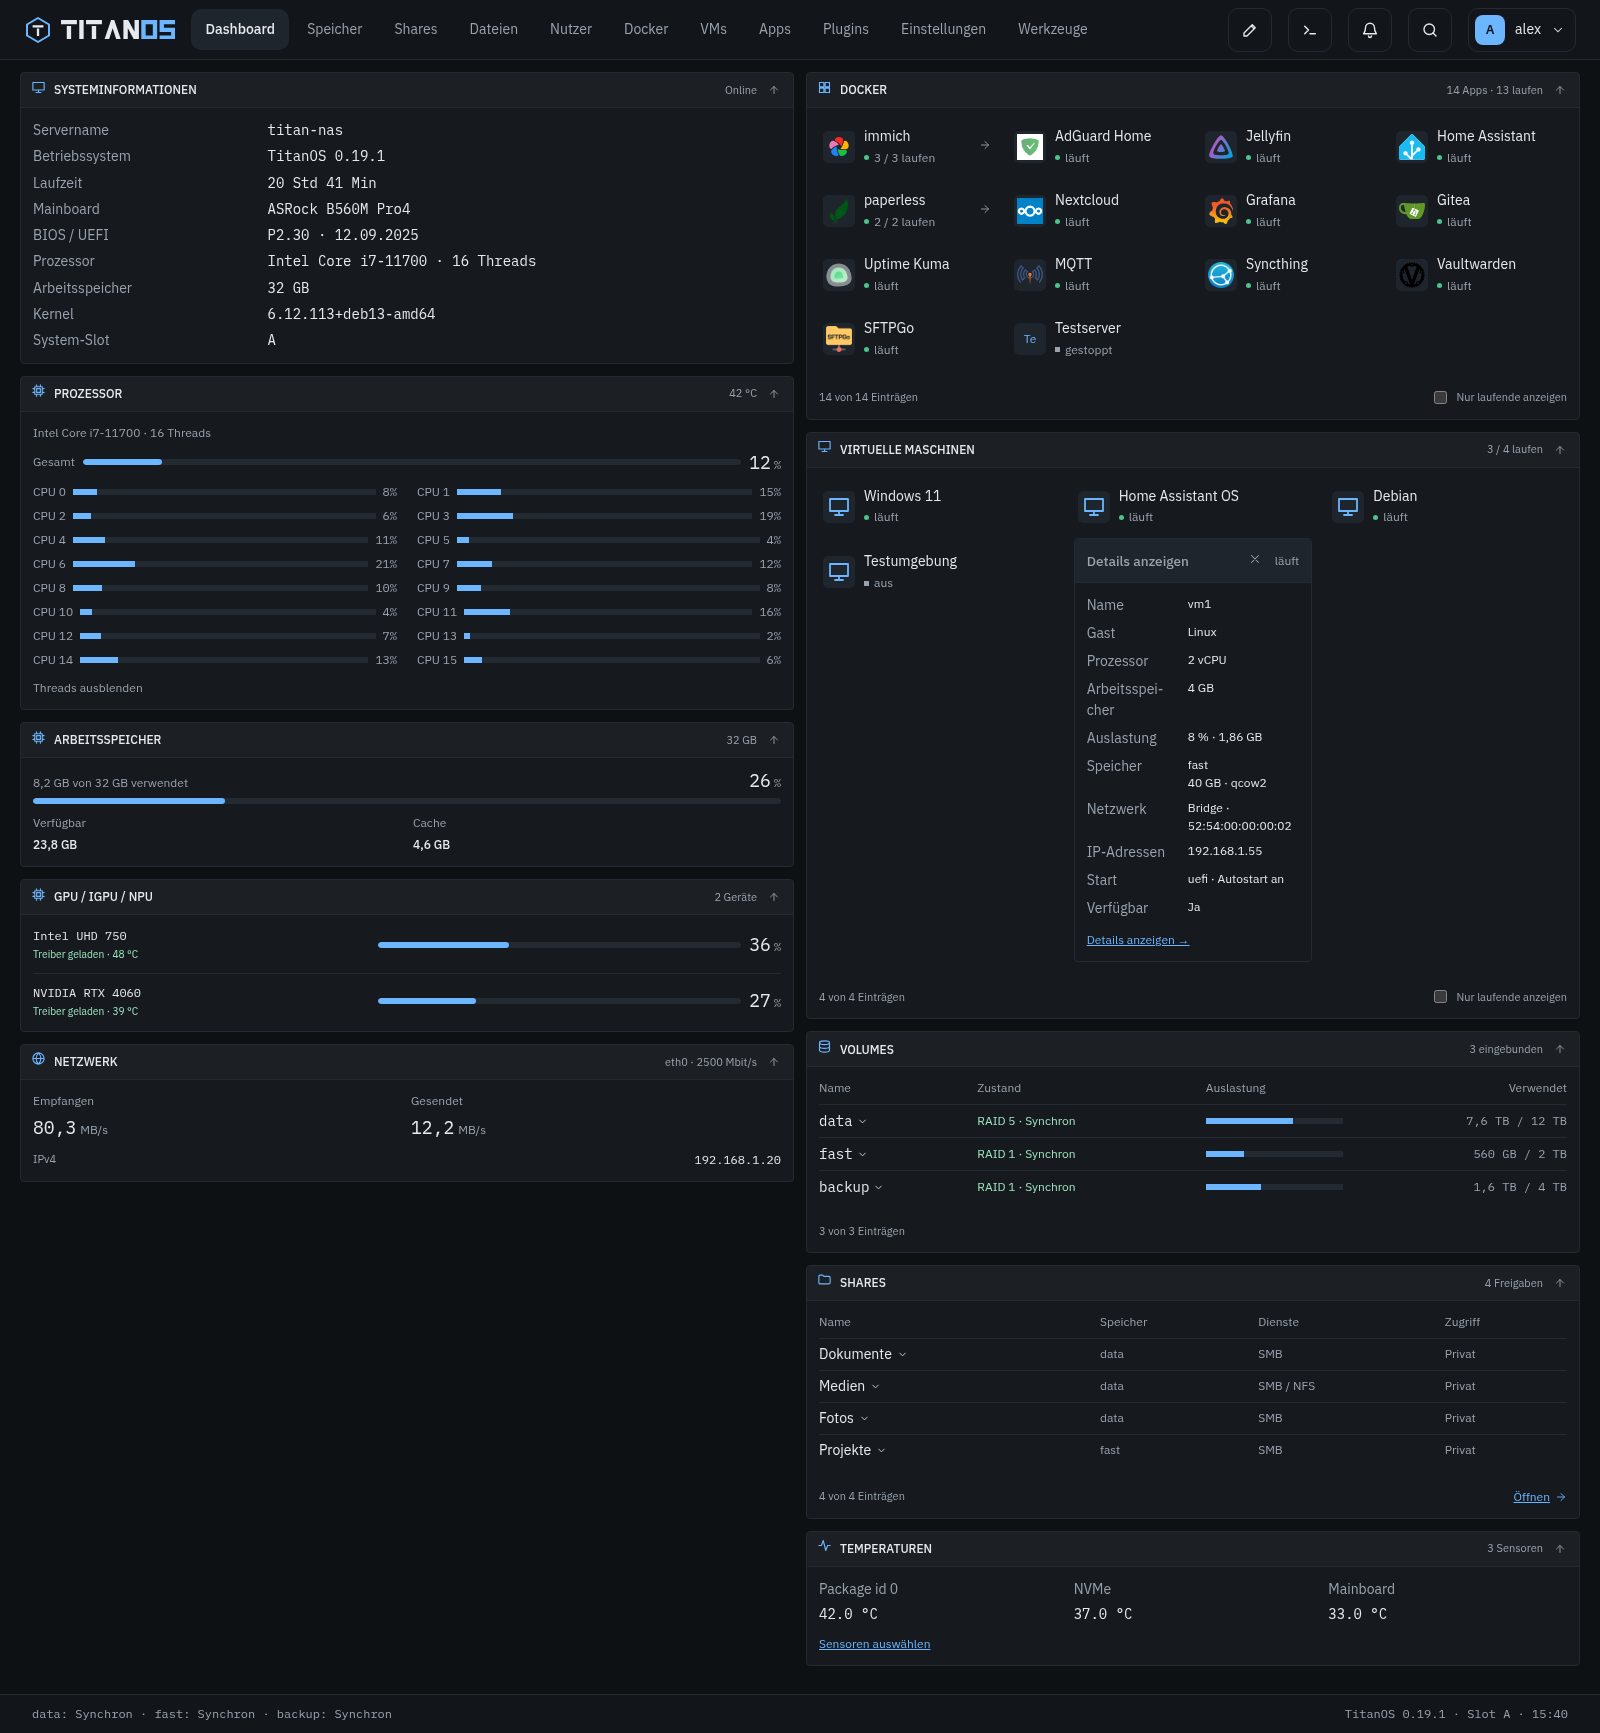
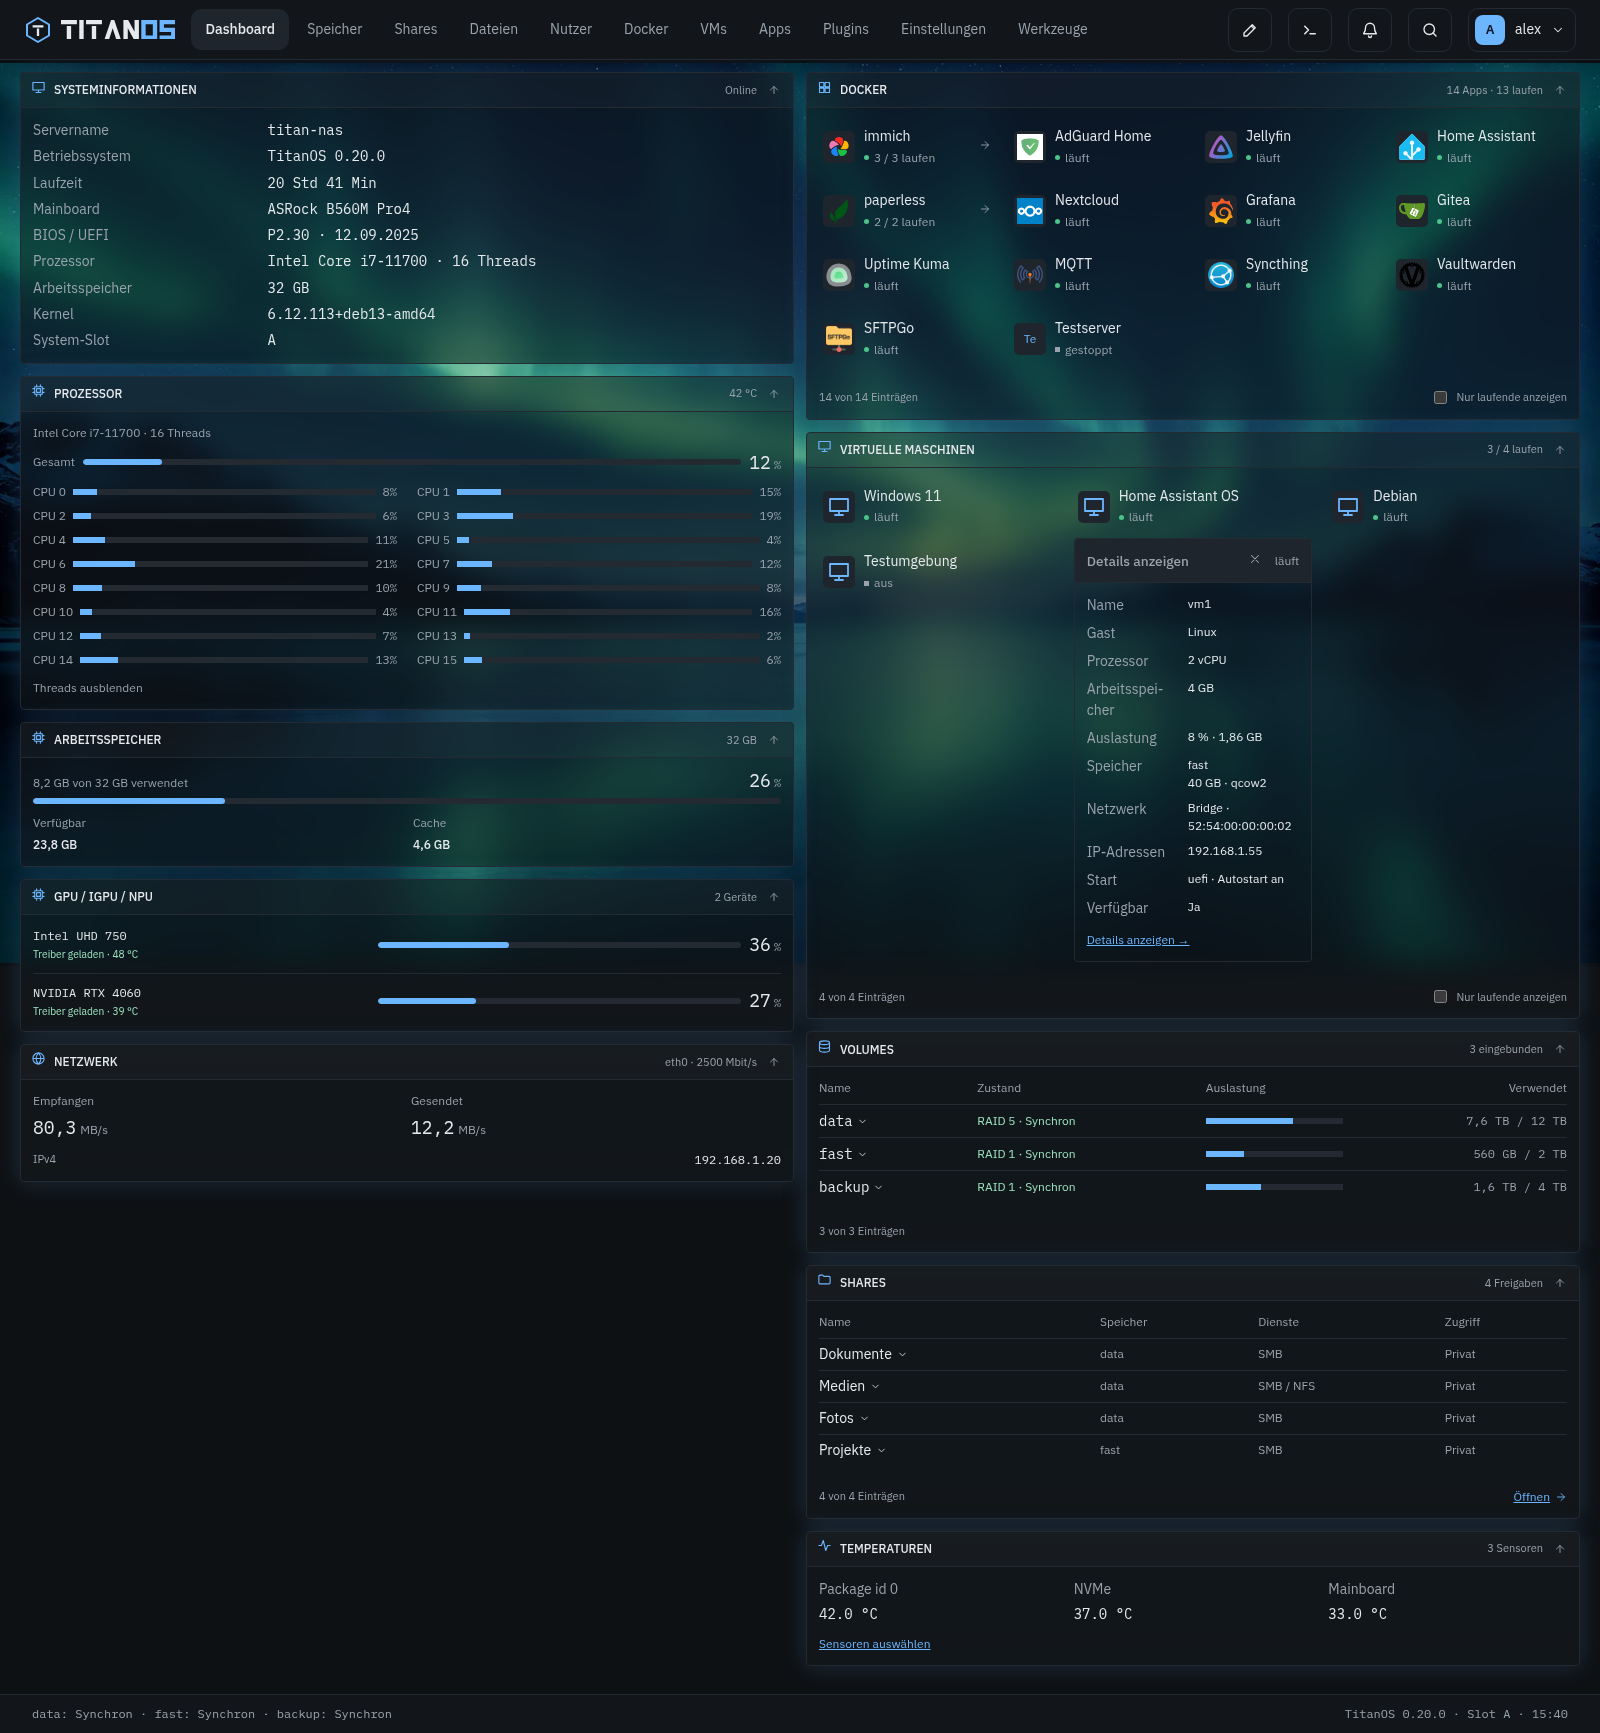
Refresh README with background editor features and current WebUI screenshots

Changed region(s): [[0.0, 0.0312, 1.0, 0.5609], [0.9688, 0.3739, 1.0, 0.4986], [0.0, 0.3428, 0.0312, 0.3739]]

diff --git a/docs/screenshots/README.md b/docs/screenshots/README.md
@@ -1,6 +1,6 @@
 # Screenshots der Weboberfläche
 
-`current/` enthält die aktuellen Aufnahmen für die Projekt-README. Die Bilder stammen aus der **gebauten Svelte-WebUI von TitanOS 0.19.1**, Quellstand [`d16fb79`](https://github.com/ra5on/TitanOS/commit/d16fb79ba60dd5ff0174850f9289c41ca5add1c4), aufgenommen am **24. Oktober 2026** mit Chromium.
+`current/` enthält die aktuellen Aufnahmen für die Projekt-README. Die Bilder stammen aus der **gebauten Svelte-WebUI von TitanOS 0.20.0**, Quellstand [`5b83a4c`](https://github.com/ra5on/TitanOS/commit/5b83a4cab06e1216d4df08eea5362f3459d707f3), aufgenommen am **24. Oktober 2026** mit Chromium.
 
 Alle NAS-Antworten werden durch isolierte Demonstrationsdaten ersetzt. Hostname, Konten, Dateien, Laufwerke, Adressen und Messwerte sind Beispiele. Es werden weder echte NAS-Geräte angesprochen noch Container oder VMs gestartet. Die sichtbaren App-Icons sind die konfigurierten Originalbilder der jeweiligen Projekte. Ihre Quellen und SHA-256-Werte stehen in [icon-sources.json](icon-sources.json); Namen und Logos gehören den jeweiligen Projekten.
 
@@ -9,7 +9,9 @@ Alle NAS-Antworten werden durch isolierte Demonstrationsdaten ersetzt. Hostname,
 | Datei | Inhalt | Darstellung |
 |---|---|---|
 | [dashboard.png](current/dashboard.png) | Persönliche Startseite mit zehn Kacheln | Desktop, zwei Spalten |
-| [dashboard-editor.png](current/dashboard-editor.png) | Positionsraster und Einstellungen der Docker-Kachel | Desktop |
+| [dashboard-editor.png](current/dashboard-editor.png) | Positionsraster und globale Transparenz-/Blur-/Glow-Regler | Desktop |
+| [dashboard-hintergruende.png](current/dashboard-hintergruende.png) | Galerie mit zehn lokalen Motiven und Vorschau | Desktop |
+| [dashboard-bild-upload.png](current/dashboard-bild-upload.png) | Eigene Bilder hinzufügen und auswählen | Desktop |
 | [dashboard-vm-details.png](current/dashboard-vm-details.png) | Details unmittelbar unter der ausgewählten VM | Desktop |
 | [speicher.png](current/speicher.png) | Volume-Liste und ausgewähltes RAID5-Volume | Desktop |
 | [shares.png](current/shares.png) | Kompakte Freigabenliste | Desktop |
@@ -20,7 +22,7 @@ Alle NAS-Antworten werden durch isolierte Demonstrationsdaten ersetzt. Hostname,
 | [dashboard-mobil.png](current/dashboard-mobil.png) | Oberer Ausschnitt der gestapelten Startseite | Smartphone |
 | [dateien-mobil.png](current/dateien-mobil.png) | Ortsauswahl und Dateiliste | Smartphone |
 
-Desktopbreite: **1600 CSS-Pixel**, Smartphone: **390 × 844 CSS-Pixel**. Theme: Graphit, blauer Akzent, Glasflächen; Dashboard-Kacheln mit eigener deckender Darstellung. Die Desktopbilder zeigen die vollständige Seite, die Mobilbilder den sichtbaren Bildschirmausschnitt. Keine nachträgliche Bildbearbeitung oder eingebauten Design-Mockups.
+Desktopbreite: **1600 CSS-Pixel**, Smartphone: **390 × 844 CSS-Pixel**. Theme: Graphit, blauer Akzent, Glasflächen; Dashboard mit Nordlicht-Hintergrund und global durchscheinenden Kacheln. Die Desktopbilder zeigen die vollständige Seite, die Mobilbilder den sichtbaren Bildschirmausschnitt. Keine nachträgliche Bildbearbeitung oder eingebauten Design-Mockups.
 
 [Die Aufnahmedaten](current/capture.json) nennen Quellstand, Bildgrößen und Prüfsummen. Bei der Aufnahme werden geladene Schriftdateien, alle 13 Docker-Logos, fehlender horizontaler Überlauf auf dem Smartphone und JavaScript-Laufzeitfehler geprüft. Das ersetzt keine vollständige Funktions- oder Hardwareprüfung.
 

diff --git a/README.md b/README.md
@@ -40,13 +40,17 @@ Die Bedienidee ist von Unraid inspiriert; TitanOS setzt auf klassisches Linux-So
 - **Ein frei gestaltbares Dashboard pro Konto:** Kacheln verschieben, vergrößern, verkleinern, duplizieren, ausblenden, einklappen und an ihrer Position sperren. Ein Positionsraster mit Ziehvorschau und unabhängigen Spalten vermeidet gemeinsame Leerzeilen.
 - **Anpassbare Aufteilung:** ein bis vier Spalten und eine Mindestbreite festlegen. Bei schmaleren Fenstern wandern die Inhalte in ihrer Lesereihenfolge nach unten; Kacheln können automatisch wachsen oder eine feste Höhe mit scrollbarem Inhalt bekommen.
 - **Gestaltung je Kachel:** Schriftgrößen für Titel, Werte und Beschriftungen, Messwertdarstellung, Farben, Hintergrund, Rahmen, Ecken, Schatten und Abstände. Bei Apps zusätzlich Symbolgröße, Eintragsbreite und Namenszeilen. Stile lassen sich übertragen.
+- **Hintergrund und Glas selbst gestalten:** zehn mitgelieferte Motive oder bis zu fünf eigene Bilder pro Konto. Das ganze Bild anzeigen oder Ausschnitt, Position und Zoom wählen. Globale Schieberegler für Transparenz, Blur, Glow mit Farbe und Abdunklung; einzelne Kacheln können eigene Werte behalten.
+- **Flüssige Messwerte:** einstellbare, abschaltbare Übergänge für Balken, Ringe und Verläufe; die Bewegungsreduktion des Browsers wird berücksichtigt.
 - **Inhalte selbst auswählen:** Systeminformationen einblenden und sortieren; CPU-Threads, Sensoren, Netzwerkschnittstellen und einzelne Geräte oder Anwendungen gezielt anzeigen.
 - **Direkt am Eintrag handeln:** passende Klickmenüs für Docker, VMs, Shares und Volumes. Docker zeigt die konfigurierten App-Icons; Stacks sind zunächst geschlossen. Details einer VM öffnen sich unmittelbar unter dieser VM.
 - **Visueller Editor mit Vorschau:** Änderungen direkt sehen, rückgängig machen, wiederholen, speichern oder verwerfen.
 
-[![Dashboard-Editor mit ausgewählter Docker-Kachel und Einstellungen für deren Darstellung](docs/screenshots/current/dashboard-editor.png)](docs/screenshots/current/dashboard-editor.png)
+[![Dashboard-Editor mit globalen Schiebereglern für Transparenz, Blur und Glow](docs/screenshots/current/dashboard-editor.png)](docs/screenshots/current/dashboard-editor.png)
 
-[VM-Details direkt im Dashboard ansehen](docs/screenshots/current/dashboard-vm-details.png).
+[![Hintergrundgalerie mit zehn lokalen Motiven und Vorschau](docs/screenshots/current/dashboard-hintergruende.png)](docs/screenshots/current/dashboard-hintergruende.png)
+
+[Eigene Bilder hinzufügen und auswählen](docs/screenshots/current/dashboard-bild-upload.png) · [VM-Details direkt im Dashboard ansehen](docs/screenshots/current/dashboard-vm-details.png).
 
 ### Speicher und Laufwerke
 
